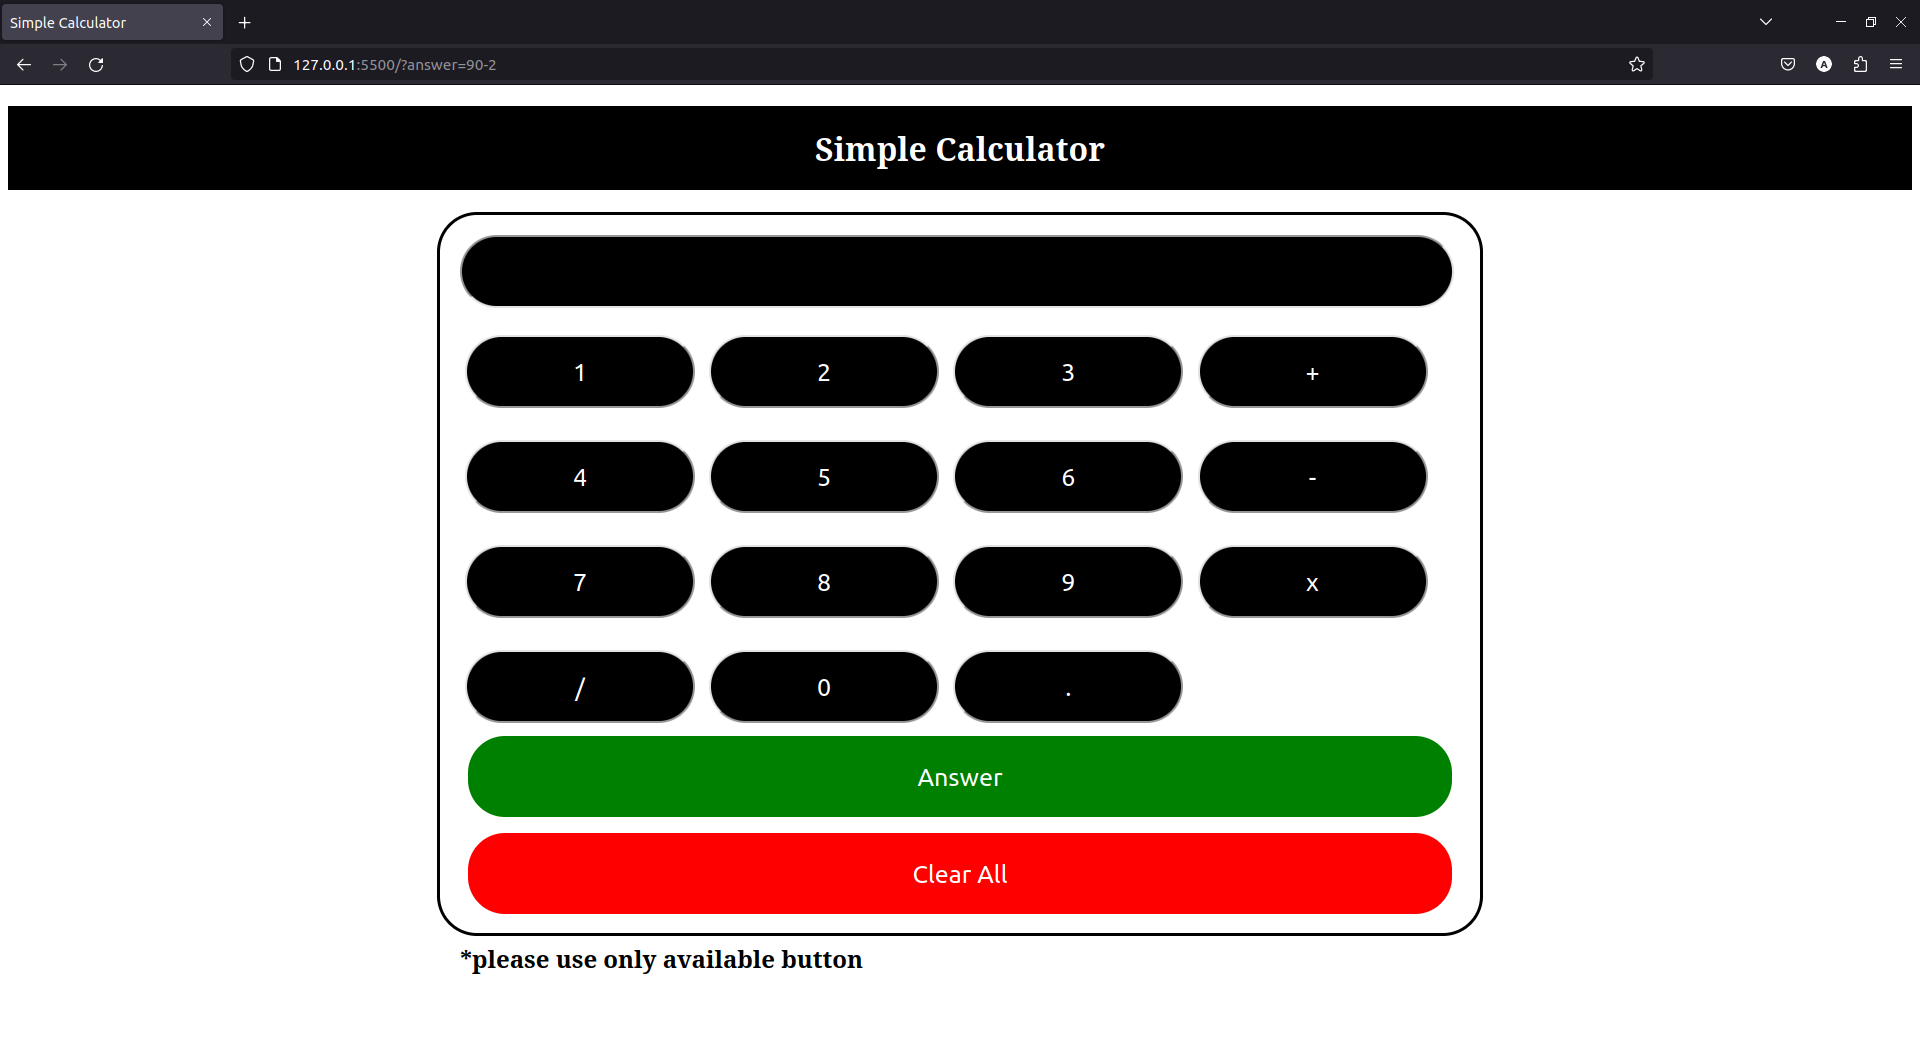
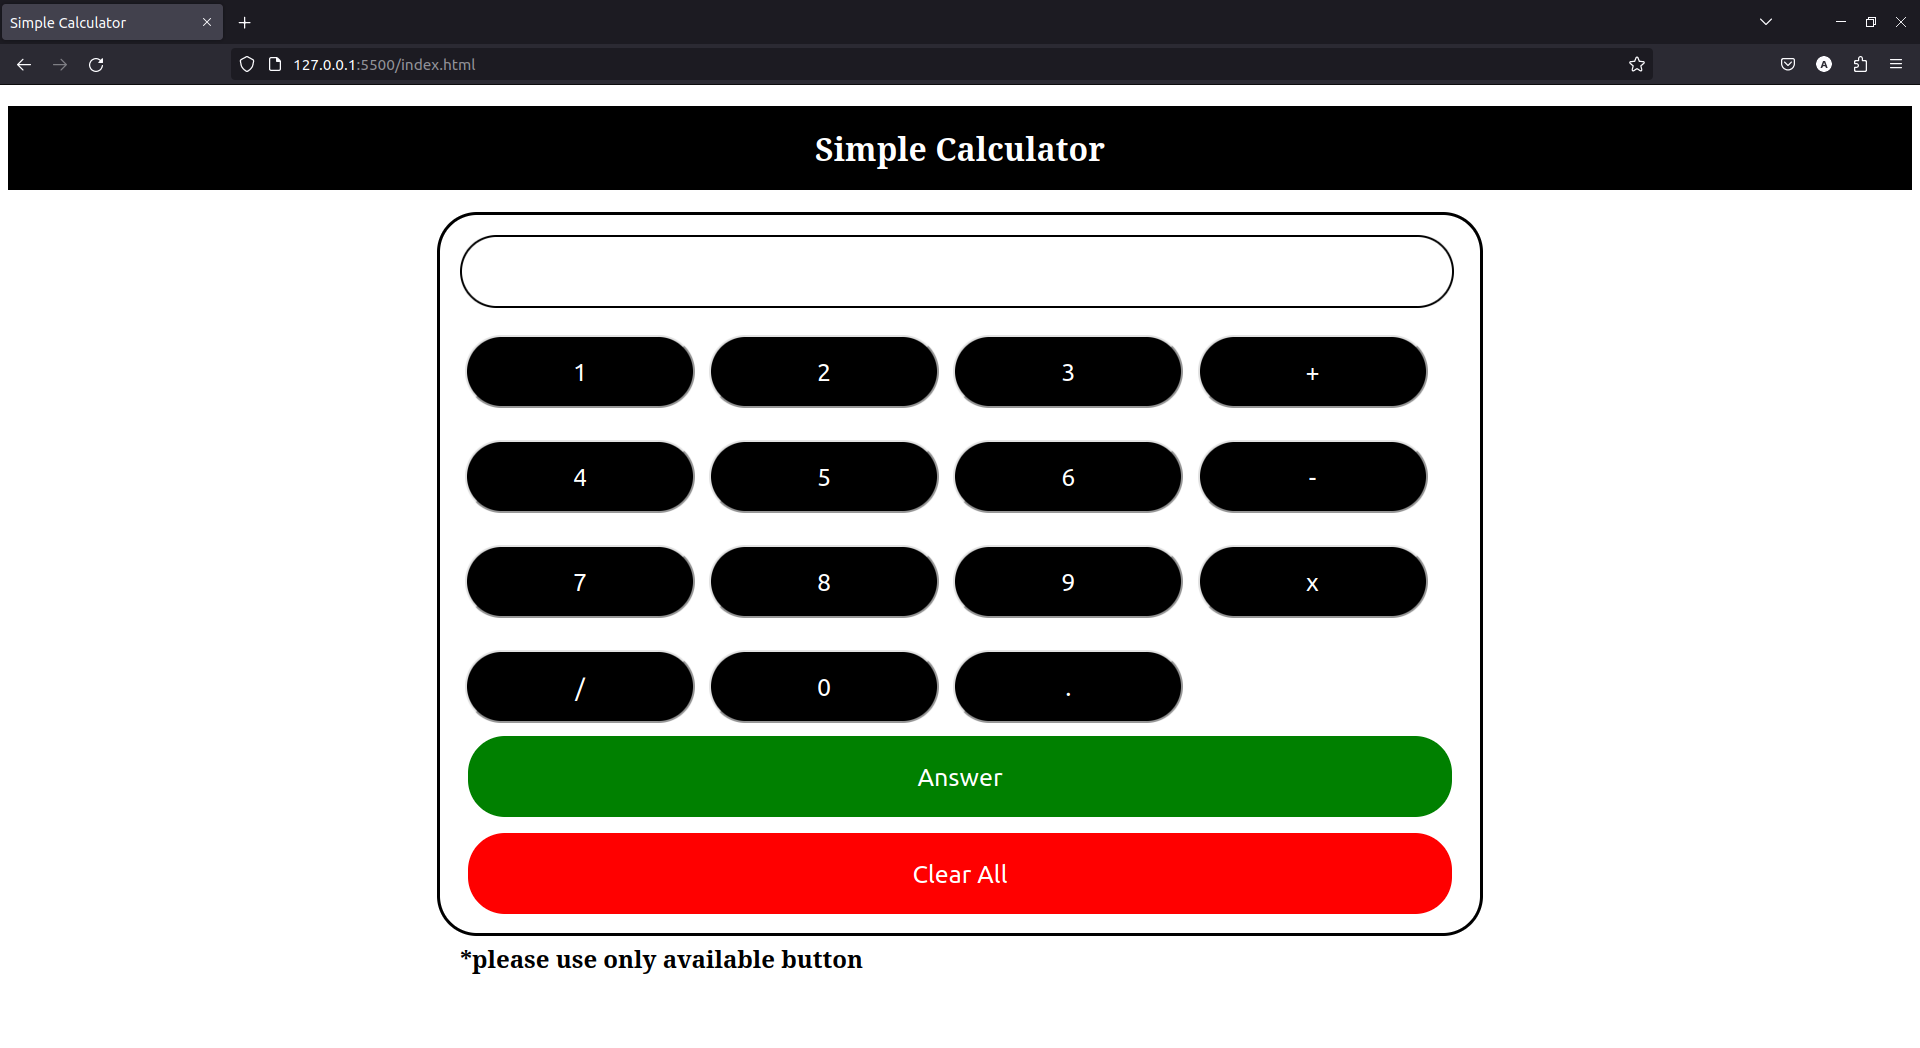
update calc form styles

Changed region(s): [[0.2188, 0.2137, 0.7812, 0.3053], [0.2188, 0.0611, 0.25, 0.0916]]

diff --git a/index.html b/index.html
@@ -48,10 +48,11 @@
     }
     #calc {
       width: 950px;
-      border: 5px solid whiteenrod;
+      border: 2px solid #000000;
       border-radius: 40px;
       padding: 20px;
       margin: auto;
+      background-color: #ffffff;
     }
   </style>
   <body>
